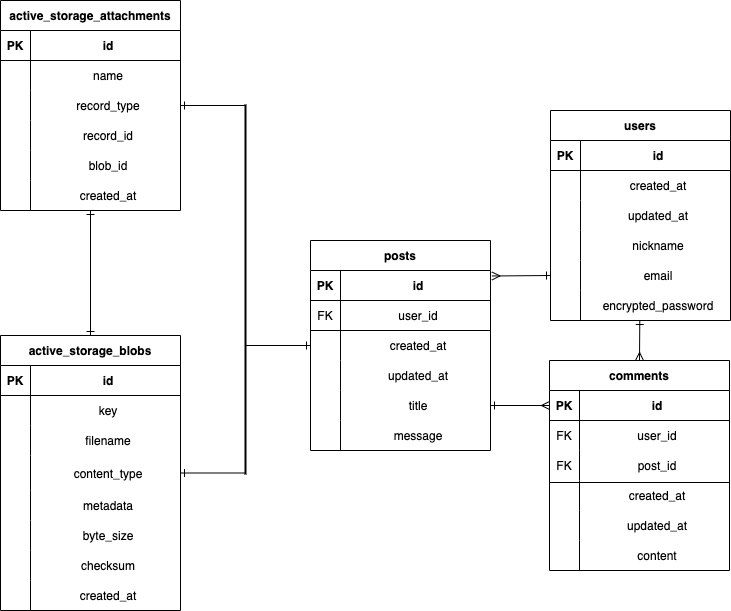
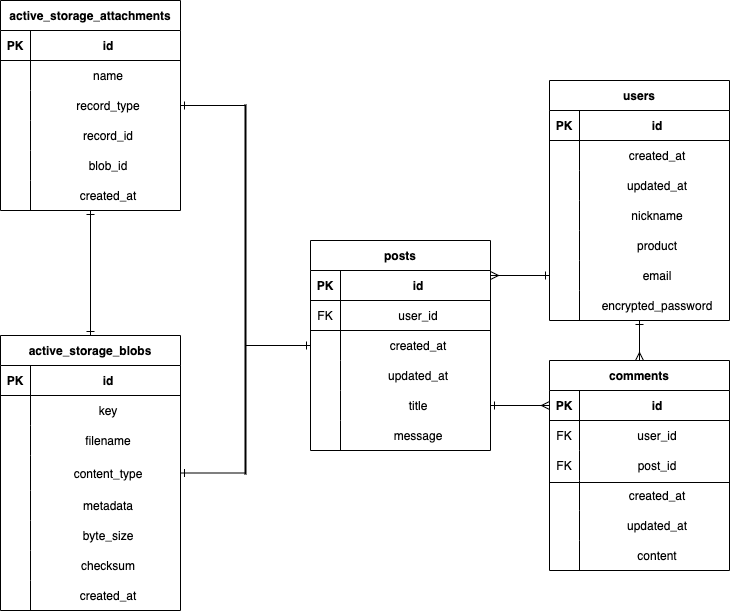
ユーザー詳細ページでユーザーの情報が表示されるようにする

diff --git a/db/schema.rb b/db/schema.rb
@@ -54,6 +54,7 @@ ActiveRecord::Schema.define(version: 2023_01_31_110417) do
 
   create_table "users", options: "ENGINE=InnoDB DEFAULT CHARSET=utf8", force: :cascade do |t|
     t.string "nickname", null: false
+    t.text "product", null: false
     t.string "email", default: "", null: false
     t.string "encrypted_password", default: "", null: false
     t.string "reset_password_token"

diff --git a/db/migrate/20230130073716_devise_create_users.rb b/db/migrate/20230130073716_devise_create_users.rb
@@ -5,6 +5,7 @@ class DeviseCreateUsers < ActiveRecord::Migration[6.0]
     create_table :users do |t|
       ## Database authenticatable
       t.string :nickname,           null: false
+      t.text   :product,            null: false
       t.string :email,              null: false, default: ""
       t.string :encrypted_password, null: false, default: ""
 

diff --git a/app/controllers/application_controller.rb b/app/controllers/application_controller.rb
@@ -3,6 +3,6 @@ class ApplicationController < ActionController::Base
 
   private
   def configure_permitted_parameters
-    devise_parameter_sanitizer.permit(:sign_up, keys: [:nickname])
+    devise_parameter_sanitizer.permit(:sign_up, keys: [:nickname, :product])
   end
 end

diff --git a/app/models/user.rb b/app/models/user.rb
@@ -8,4 +8,5 @@ class User < ApplicationRecord
   has_many :comments
 
   validates :nickname, presence: true
+  validates :product, presence: true
 end

diff --git a/app/controllers/users_controller.rb b/app/controllers/users_controller.rb
@@ -1,6 +1,7 @@
 class UsersController < ApplicationController
 
   def show
+    @user = User.find(params[:id])
   end
 
 end

diff --git a/README.md b/README.md
@@ -5,6 +5,7 @@
 | Column             | Type   | Options                   |
 | ------------------ | ------ | ------------------------- |
 | nickname           | string | null: false               |
+| product            | text   | null: false               |
 | email              | string | null: false, unique: true |
 | encrypted_password | string | null: false               |  
 
